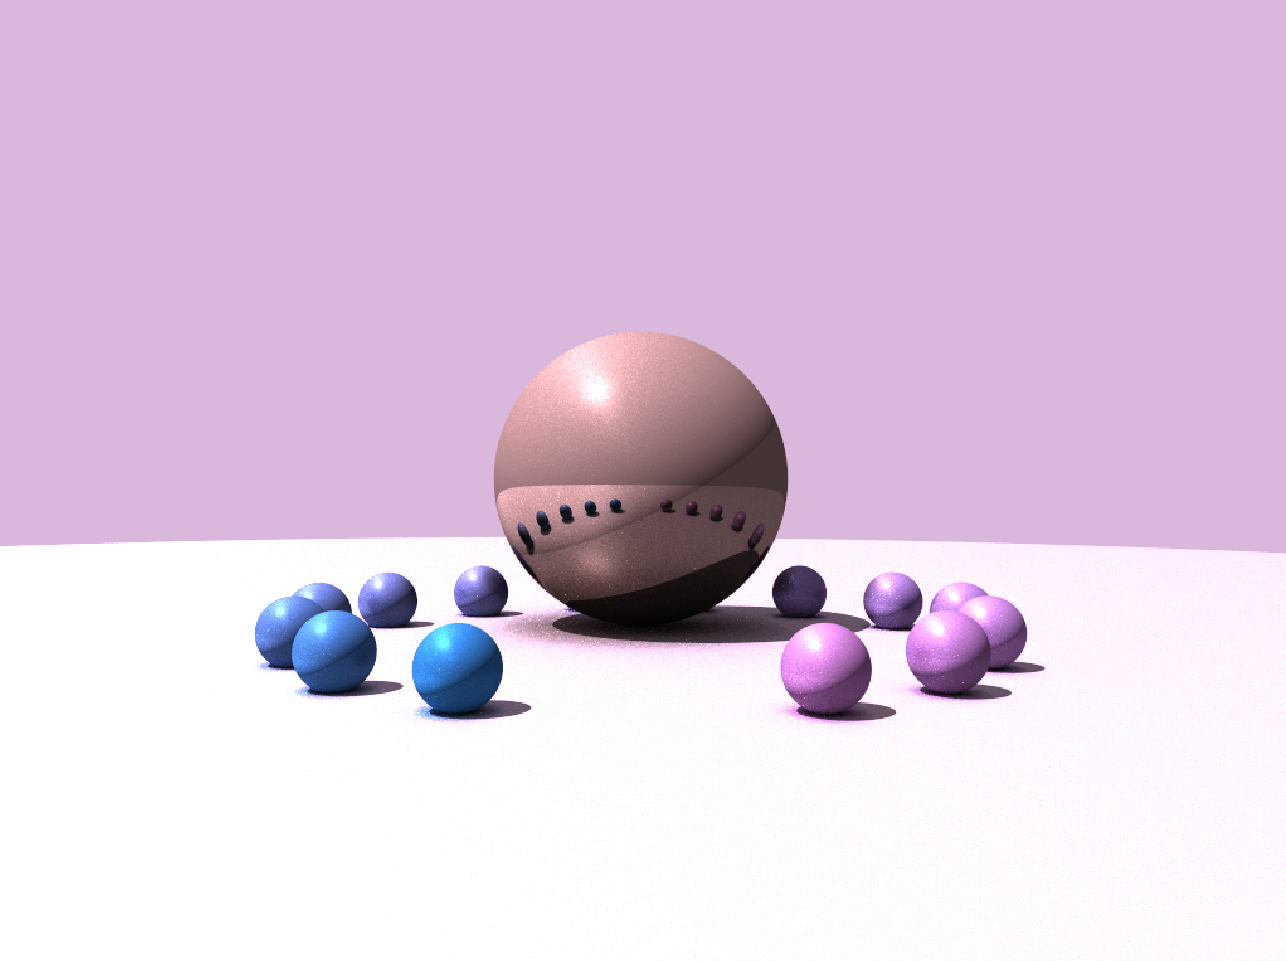
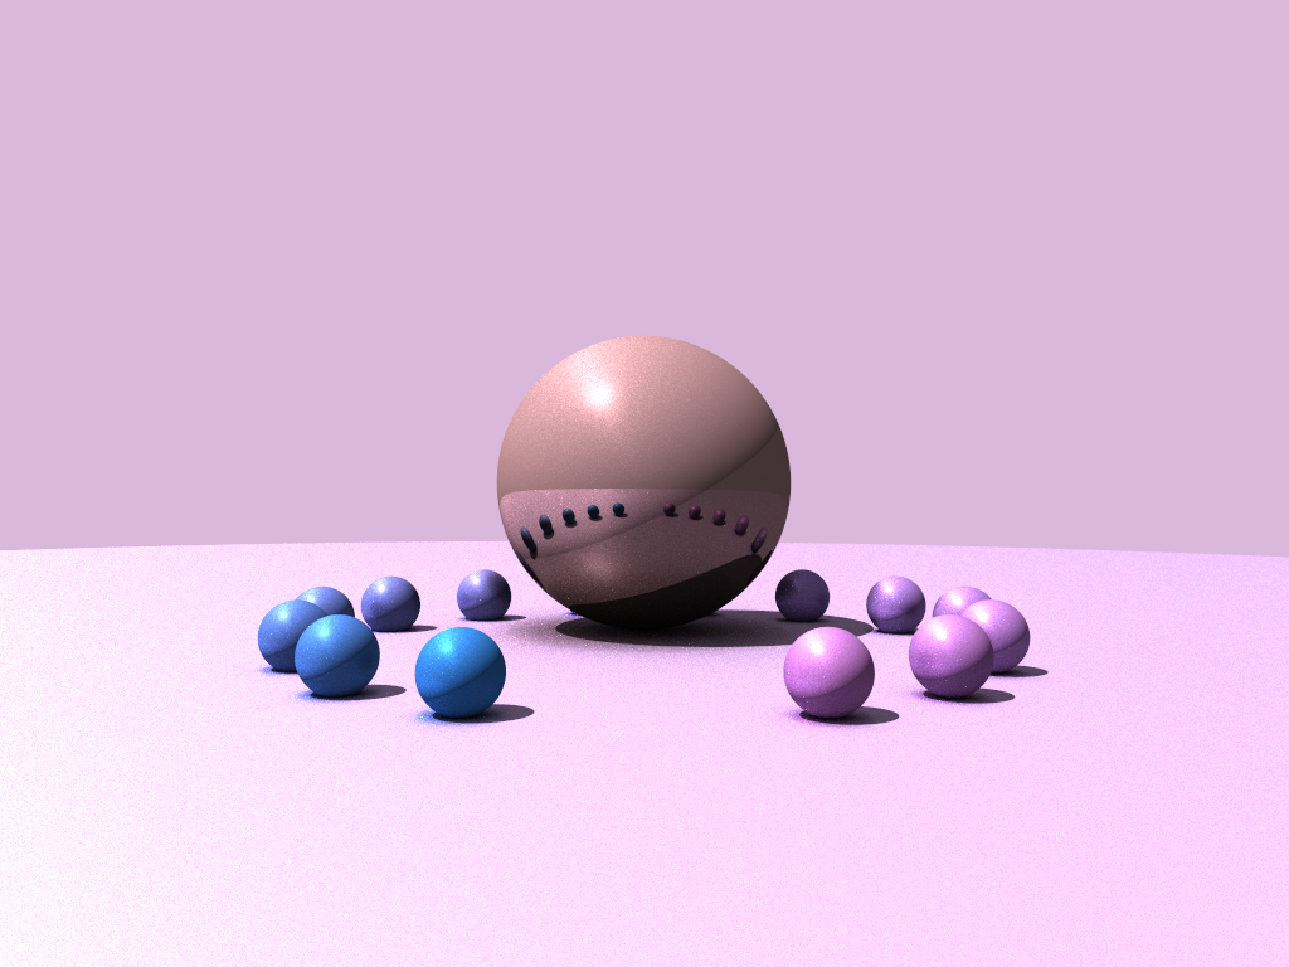
changed ground color in the 3rd output image

diff --git a/src/shiny.cc b/src/shiny.cc
@@ -26,7 +26,7 @@ int main(int argc, char **argv) {
 	Sphere	big = Sphere(vec3(-1.0f, -201.0f, -5.0f), 200.5f);
 
 	/* Diffuse white */
-	Material m1 = {0.8f, vec3(1.0f, 1.0f, 1.0f), vec2(0.0f), vec2(16.0f, 64.0f)};
+	Material m1 = {0.8f, vec3(0.75f, 0.7f, 0.85f), vec2(0.0f), vec2(16.0f, 64.0f)};
 
 	/* "Yellowish" mirror */
 	Material m2 = {0.8f, vec3(0.5f, 0.4f, 0.3f), vec2(1.0f, 0.0f), vec2(16.0f, 128.0f)};
